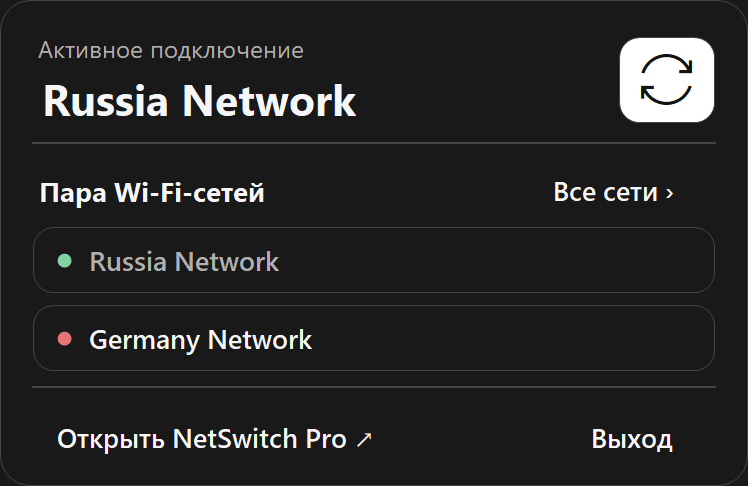
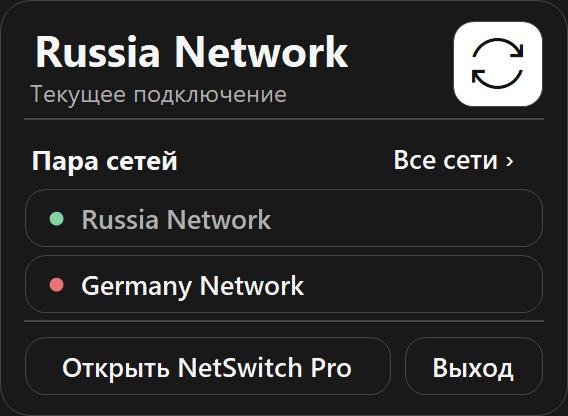
Release NetSwitch Pro 2.0.7 with a smaller tray panel

diff --git a/UiWords.cs b/UiWords.cs
@@ -7,7 +7,7 @@ internal enum Word
     Virtual, Bluetooth, Admin, Elevate, PickWifi, PickAdapters, Disconnect, Unknown,
     Saved, Enabled, Disabled, Connected, Connect, Switch, Busy, WifiHint, AdapterHint, SystemTheme, EmptyLog, CopyLog, LogCopied,
     SavedNetworks, PairNetworks, AllSavedNetworks, NoSavedNetworks, OpenApp, Exit, Previous, Next, SwitchPair, Autostart, StartupFailed,
-    AdapterWifiProfile, WifiAutomatic, LoadWifiProfiles, ChooseAdapterWifiProfile, EnabledWithoutLink, TrayAllShort, TrayPairShort
+    AdapterWifiProfile, WifiAutomatic, LoadWifiProfiles, ChooseAdapterWifiProfile, EnabledWithoutLink, TrayAllShort, TrayPairShort, TrayCurrentConnection
 }
 
 internal static class UiWords
@@ -24,37 +24,37 @@ internal static class UiWords
          "Wi-Fi adapter|Active connection|Network A|Network B|Adapter A|Adapter B|Virtual|Bluetooth|Administrator mode|Run as administrator|" +
          "Choose two different saved networks.|Choose two different adapters.|Disconnected|Profile unavailable|" +
          "Saved profile|Enabled|Disabled|Connected|Connect to|Switch to|Working…|" +
-         "Choose networks already saved in Windows.|The target link is checked before the active adapter is disabled.|Follow Windows|No activity yet.|Copy log|Copied|Saved Wi-Fi networks|Your Wi-Fi pair|All saved networks|No Wi-Fi profiles are saved for this adapter.|Open NetSwitch Pro|Exit|Previous page|Next page|Switch Wi-Fi pair|Start with Windows in the tray|Could not update Windows startup.|Wi-Fi network for adapter|Automatic|Enable Wi-Fi and load networks|Choose a saved Wi-Fi network.|Enabled, no connection|All networks|Pair").Split('|'),
+         "Choose networks already saved in Windows.|The target link is checked before the active adapter is disabled.|Follow Windows|No activity yet.|Copy log|Copied|Saved Wi-Fi networks|Network pair|All saved networks|No Wi-Fi profiles are saved for this adapter.|Open NetSwitch Pro|Exit|Previous page|Next page|Switch Wi-Fi pair|Start with Windows in the tray|Could not update Windows startup.|Wi-Fi network for adapter|Automatic|Enable Wi-Fi and load networks|Choose a saved Wi-Fi network.|Enabled, no connection|All networks|Pair|Current connection").Split('|'),
         ("Переключение сетей и адаптеров|Сети Wi-Fi|Адаптеры|Обновить|Журнал|Настройки|Тема|Тёмная|Светлая|Язык|" +
          "Адаптер Wi-Fi|Активное подключение|Сеть A|Сеть B|Адаптер A|Адаптер B|Виртуальные|Bluetooth|Режим администратора|Запустить от администратора|" +
          "Выберите две разные сохранённые сети.|Выберите два разных адаптера.|Нет подключения|Имя профиля недоступно|" +
          "Сохранённый профиль|Включён|Отключён|Подключено|Подключить|Переключить на|Выполняется…|" +
-         "Выберите сети, уже сохранённые в Windows.|Перед отключением активного адаптера проверяется новое подключение.|Как в Windows|Событий пока нет.|Копировать|Скопировано|Сохранённые сети|Пара Wi-Fi-сетей|Все сохранённые сети|Для этого адаптера нет сохранённых Wi-Fi-сетей.|Открыть NetSwitch Pro|Выход|Предыдущая страница|Следующая страница|Переключить пару|Запускать вместе с Windows в трее|Не удалось изменить автозапуск Windows.|Сеть для адаптера Wi-Fi|Автоматически|Включить Wi-Fi и загрузить сети|Выберите сохранённую сеть Wi-Fi.|Включён, без подключения|Все сети|К паре").Split('|'),
+         "Выберите сети, уже сохранённые в Windows.|Перед отключением активного адаптера проверяется новое подключение.|Как в Windows|Событий пока нет.|Копировать|Скопировано|Сохранённые сети|Пара сетей|Все сохранённые сети|Для этого адаптера нет сохранённых Wi-Fi-сетей.|Открыть NetSwitch Pro|Выход|Предыдущая страница|Следующая страница|Переключить пару|Запускать вместе с Windows в трее|Не удалось изменить автозапуск Windows.|Сеть для адаптера Wi-Fi|Автоматически|Включить Wi-Fi и загрузить сети|Выберите сохранённую сеть Wi-Fi.|Включён, без подключения|Все сети|К паре|Текущее подключение").Split('|'),
         ("Changer de réseau et d’adaptateur|Réseaux Wi-Fi|Adaptateurs|Actualiser|Journal|Paramètres|Thème|Sombre|Clair|Langue|" +
          "Adaptateur Wi-Fi|Connexion active|Réseau A|Réseau B|Adaptateur A|Adaptateur B|Virtuels|Bluetooth|Mode administrateur|Exécuter en administrateur|" +
          "Choisissez deux réseaux enregistrés différents.|Choisissez deux adaptateurs différents.|Déconnecté|Profil indisponible|" +
          "Profil enregistré|Activé|Désactivé|Connecté|Connecter|Basculer vers|En cours…|" +
-         "Choisissez des réseaux enregistrés dans Windows.|La nouvelle connexion est vérifiée avant la désactivation de l’adaptateur actif.|Selon Windows|Aucune activité.|Copier|Copié|Réseaux Wi-Fi enregistrés|Paire Wi-Fi|Tous les réseaux enregistrés|Aucun profil Wi-Fi enregistré pour cet adaptateur.|Ouvrir NetSwitch Pro|Quitter|Page précédente|Page suivante|Basculer la paire|Démarrer avec Windows dans la zone de notification|Impossible de modifier le démarrage Windows.|Réseau Wi-Fi de l’adaptateur|Automatique|Activer le Wi-Fi et charger les réseaux|Choisissez un réseau Wi-Fi enregistré.|Activé, sans connexion|Tous les réseaux|Paire").Split('|'),
+         "Choisissez des réseaux enregistrés dans Windows.|La nouvelle connexion est vérifiée avant la désactivation de l’adaptateur actif.|Selon Windows|Aucune activité.|Copier|Copié|Réseaux Wi-Fi enregistrés|Paire de réseaux|Tous les réseaux enregistrés|Aucun profil Wi-Fi enregistré pour cet adaptateur.|Ouvrir NetSwitch Pro|Quitter|Page précédente|Page suivante|Basculer la paire|Démarrer avec Windows dans la zone de notification|Impossible de modifier le démarrage Windows.|Réseau Wi-Fi de l’adaptateur|Automatique|Activer le Wi-Fi et charger les réseaux|Choisissez un réseau Wi-Fi enregistré.|Activé, sans connexion|Tous les réseaux|Paire|Connexion actuelle").Split('|'),
         ("Netzwerke und Adapter wechseln|WLAN-Netze|Adapter|Aktualisieren|Protokoll|Einstellungen|Design|Dunkel|Hell|Sprache|" +
          "WLAN-Adapter|Aktive Verbindung|Netz A|Netz B|Adapter A|Adapter B|Virtuell|Bluetooth|Administratormodus|Als Administrator starten|" +
          "Zwei verschiedene gespeicherte Netze auswählen.|Zwei verschiedene Adapter auswählen.|Getrennt|Profil nicht verfügbar|" +
          "Gespeichertes Profil|Aktiviert|Deaktiviert|Verbunden|Verbinden mit|Wechseln zu|Wird ausgeführt…|" +
-         "In Windows gespeicherte Netze auswählen.|Die neue Verbindung wird geprüft, bevor der aktive Adapter deaktiviert wird.|Wie in Windows|Keine Einträge.|Kopieren|Kopiert|Gespeicherte WLAN-Netze|WLAN-Paar|Alle gespeicherten Netze|Für diesen Adapter sind keine WLAN-Profile gespeichert.|NetSwitch Pro öffnen|Beenden|Vorherige Seite|Nächste Seite|WLAN-Paar wechseln|Mit Windows im Infobereich starten|Windows-Autostart konnte nicht geändert werden.|WLAN für den Adapter|Automatisch|WLAN aktivieren und Netze laden|Ein gespeichertes WLAN auswählen.|Aktiviert, ohne Verbindung|Alle Netze|Paar").Split('|'),
+         "In Windows gespeicherte Netze auswählen.|Die neue Verbindung wird geprüft, bevor der aktive Adapter deaktiviert wird.|Wie in Windows|Keine Einträge.|Kopieren|Kopiert|Gespeicherte WLAN-Netze|Netzwerkpaar|Alle gespeicherten Netze|Für diesen Adapter sind keine WLAN-Profile gespeichert.|NetSwitch Pro öffnen|Beenden|Vorherige Seite|Nächste Seite|WLAN-Paar wechseln|Mit Windows im Infobereich starten|Windows-Autostart konnte nicht geändert werden.|WLAN für den Adapter|Automatisch|WLAN aktivieren und Netze laden|Ein gespeichertes WLAN auswählen.|Aktiviert, ohne Verbindung|Alle Netze|Paar|Aktuelle Verbindung").Split('|'),
         ("切换网络和适配器|Wi-Fi 网络|适配器|刷新|日志|设置|主题|深色|浅色|语言|" +
          "Wi-Fi 适配器|当前连接|网络 A|网络 B|适配器 A|适配器 B|虚拟|蓝牙|管理员模式|以管理员身份运行|" +
          "请选择两个不同的已保存网络。|请选择两个不同的适配器。|未连接|无法读取配置文件|" +
          "已保存配置文件|已启用|已禁用|已连接|连接到|切换到|处理中…|" +
-         "请选择 Windows 中已保存的网络。|禁用当前适配器前将检查新连接。|跟随 Windows|暂无活动。|复制日志|已复制|已保存的 Wi-Fi 网络|Wi-Fi 网络对|所有已保存的网络|此适配器没有已保存的 Wi-Fi 配置文件。|打开 NetSwitch Pro|退出|上一页|下一页|切换 Wi-Fi 网络|随 Windows 启动至系统托盘|无法更新 Windows 启动设置。|适配器的 Wi-Fi 网络|自动|启用 Wi-Fi 并加载网络|请选择已保存的 Wi-Fi 网络。|已启用，未连接|全部网络|网络对").Split('|'),
+         "请选择 Windows 中已保存的网络。|禁用当前适配器前将检查新连接。|跟随 Windows|暂无活动。|复制日志|已复制|已保存的 Wi-Fi 网络|网络对|所有已保存的网络|此适配器没有已保存的 Wi-Fi 配置文件。|打开 NetSwitch Pro|退出|上一页|下一页|切换 Wi-Fi 网络|随 Windows 启动至系统托盘|无法更新 Windows 启动设置。|适配器的 Wi-Fi 网络|自动|启用 Wi-Fi 并加载网络|请选择已保存的 Wi-Fi 网络。|已启用，未连接|全部网络|网络对|当前连接").Split('|'),
         ("Przełączanie sieci i kart|Sieci Wi-Fi|Karty sieciowe|Odśwież|Dziennik|Ustawienia|Motyw|Ciemny|Jasny|Język|" +
          "Karta Wi-Fi|Aktywne połączenie|Sieć A|Sieć B|Karta A|Karta B|Wirtualne|Bluetooth|Tryb administratora|Uruchom jako administrator|" +
          "Wybierz dwie różne zapisane sieci.|Wybierz dwie różne karty.|Rozłączono|Profil niedostępny|" +
          "Zapisany profil|Włączona|Wyłączona|Połączono|Połącz z|Przełącz na|Praca w toku…|" +
-         "Wybierz sieci zapisane w systemie Windows.|Nowe połączenie jest sprawdzane przed wyłączeniem aktywnej karty.|Jak w Windows|Brak zdarzeń.|Kopiuj|Skopiowano|Zapisane sieci Wi-Fi|Para sieci Wi-Fi|Wszystkie zapisane sieci|Brak profili Wi-Fi dla tej karty.|Otwórz NetSwitch Pro|Zakończ|Poprzednia strona|Następna strona|Przełącz parę|Uruchamiaj z Windows w zasobniku|Nie można zmienić autostartu Windows.|Sieć Wi-Fi dla karty|Automatycznie|Włącz Wi-Fi i wczytaj sieci|Wybierz zapisaną sieć Wi-Fi.|Włączona, bez połączenia|Wszystkie|Para").Split('|'),
+         "Wybierz sieci zapisane w systemie Windows.|Nowe połączenie jest sprawdzane przed wyłączeniem aktywnej karty.|Jak w Windows|Brak zdarzeń.|Kopiuj|Skopiowano|Zapisane sieci Wi-Fi|Para sieci|Wszystkie zapisane sieci|Brak profili Wi-Fi dla tej karty.|Otwórz NetSwitch Pro|Zakończ|Poprzednia strona|Następna strona|Przełącz parę|Uruchamiaj z Windows w zasobniku|Nie można zmienić autostartu Windows.|Sieć Wi-Fi dla karty|Automatycznie|Włącz Wi-Fi i wczytaj sieci|Wybierz zapisaną sieć Wi-Fi.|Włączona, bez połączenia|Wszystkie|Para|Bieżące połączenie").Split('|'),
         ("ネットワークとアダプターを切り替え|Wi-Fi ネットワーク|アダプター|更新|履歴|設定|テーマ|ダーク|ライト|言語|" +
          "Wi-Fi アダプター|現在の接続|ネットワーク A|ネットワーク B|アダプター A|アダプター B|仮想|Bluetooth|管理者モード|管理者として実行|" +
          "保存済みの異なるネットワークを2つ選択します。|異なるアダプターを2つ選択します。|未接続|プロファイルを取得できません|" +
          "保存済みプロファイル|有効|無効|接続済み|接続先|切り替え先|処理中…|" +
-         "Windows に保存済みのネットワークを選択します。|現在のアダプターを無効にする前に、新しい接続を確認します。|Windows に合わせる|履歴はありません。|コピー|コピー済み|保存済み Wi-Fi ネットワーク|Wi-Fi ネットワークのペア|すべての保存済みネットワーク|このアダプターに保存済みの Wi-Fi プロファイルがありません。|NetSwitch Pro を開く|終了|前のページ|次のページ|Wi-Fi ペアを切り替え|Windows 起動時にトレイで開始|Windows の起動設定を変更できませんでした。|アダプターの Wi-Fi ネットワーク|自動|Wi-Fi を有効にしてネットワークを読み込む|保存済み Wi-Fi を選択してください。|有効・未接続|すべて|ペア").Split('|')
+         "Windows に保存済みのネットワークを選択します。|現在のアダプターを無効にする前に、新しい接続を確認します。|Windows に合わせる|履歴はありません。|コピー|コピー済み|保存済み Wi-Fi ネットワーク|ネットワークのペア|すべての保存済みネットワーク|このアダプターに保存済みの Wi-Fi プロファイルがありません。|NetSwitch Pro を開く|終了|前のページ|次のページ|Wi-Fi ペアを切り替え|Windows 起動時にトレイで開始|Windows の起動設定を変更できませんでした。|アダプターの Wi-Fi ネットワーク|自動|Wi-Fi を有効にしてネットワークを読み込む|保存済み Wi-Fi を選択してください。|有効・未接続|すべて|ペア|現在の接続").Split('|')
     ];
 
     public static string Get(string language, Word word)

diff --git a/TrayPanel.cs b/TrayPanel.cs
@@ -20,8 +20,8 @@ internal sealed class TrayPanel : Form
     private readonly DesktopButton all = Button(ButtonAppearance.Quiet);
     private readonly DesktopButton previous = Button();
     private readonly DesktopButton next = Button();
-    private readonly DesktopButton open = Button(ButtonAppearance.Quiet, leftAligned: true);
-    private readonly DesktopButton exit = Button(ButtonAppearance.Quiet);
+    private readonly DesktopButton open = Button();
+    private readonly DesktopButton exit = Button();
     private readonly ToolTip tips = new();
     private TrayState state = new("English", false, "", false, [], [], true, null, null);
     private DesktopPalette palette = DesktopPalette.Resolve(false);
@@ -120,36 +120,38 @@ internal sealed class TrayPanel : Form
             page = Math.Clamp(page, 0, pageCount - 1);
             var slice = available.Skip(page * PageSize).Take(PageSize).ToArray();
 
-            int width = this.Px(374), pad = this.Px(16), inner = width - 2 * pad;
-            int y = this.Px(15);
-            caption.ForeColor = palette.Muted;
-            caption.Text = W(Word.Active);
-            int switchWidth = this.Px(49), titleWidth = inner - switchWidth - this.Px(12);
-            Place(caption, pad, y, titleWidth, 18);
+            int width = this.Px(284), pad = this.Px(12), inner = width - 2 * pad;
+            int y = this.Px(10);
+            int switchWidth = this.Px(46), titleWidth = inner - switchWidth - this.Px(9);
 
             connection.Text = state.Connection;
-            Place(connection, pad, y + this.Px(18), titleWidth, 32);
+            Place(connection, pad, y, titleWidth, 27);
             tips.SetToolTip(connection, state.Connection);
+
+            caption.ForeColor = palette.Muted;
+            caption.Text = W(Word.TrayCurrentConnection);
+            Place(caption, pad, y + this.Px(28), titleWidth, 16);
 
             switchPair.AccessibleName = state.Target is { } targetName ? W(Word.Switch) + " " + targetName : W(Word.SwitchPair);
             tips.SetToolTip(switchPair, state.Target is null ? W(Word.PickWifi) : switchPair.AccessibleName);
             switchPair.Enabled = state.Target is not null && !state.Busy;
-            Place(switchPair, width - pad - switchWidth, y + this.Px(3), switchWidth, 44);
-            y += this.Px(54);
+            Place(switchPair, width - pad - switchWidth, y, switchWidth, 44);
+            y += this.Px(49);
             PlaceDivider(statusDivider, pad, inner, ref y);
 
             bool hasMore = state.Pair.Length == 2 && state.Saved.Length > state.Pair.Length;
             all.Visible = hasMore;
-            int allWidth = this.Px(102);
+            int allWidth = 0;
             if (hasMore)
             {
                 all.Text = expanded ? W(Word.TrayPairShort) : W(Word.TrayAllShort) + " ›";
+                allWidth = Math.Min(ButtonWidth(all), inner / 2);
                 tips.SetToolTip(all, expanded ? W(Word.PairNetworks) : W(Word.AllSavedNetworks));
-                Place(all, width - pad - allWidth, y, allWidth, 28);
+                Place(all, width - pad - allWidth, y, allWidth, 24);
             }
             section.Text = expanded ? W(Word.SavedNetworks) : W(Word.PairNetworks);
-            Place(section, pad, y, hasMore ? inner - allWidth : inner, 28);
-            y += this.Px(32);
+            Place(section, pad, y, inner - allWidth, 24);
+            y += this.Px(27);
 
             for (int i = 0; i < profiles.Length; i++)
             {
@@ -169,30 +171,19 @@ internal sealed class TrayPanel : Form
                 row.Selected = active;
                 row.Enabled = !active && !state.Busy;
                 tips.SetToolTip(row, row.AccessibleName);
-                Place(row, pad, y, inner, 34);
-                y += this.Px(39);
+                Place(row, pad, y, inner, 30);
+                y += this.Px(33);
             }
 
-            if (state.Saved.Length == 0)
+            var message = state.Feedback ?? (state.Saved.Length == 0 ? W(Word.NoSavedNetworks) : null);
+            feedback.Visible = message is not null;
+            if (message is not null)
             {
-                feedback.Text = state.Feedback ?? W(Word.NoSavedNetworks);
-                feedback.Visible = true;
+                feedback.Text = message;
                 feedback.ForeColor = palette.Muted;
-                Place(feedback, pad, y, inner, 39);
-                y += this.Px(43);
-            }
-            else
-            {
-                bool showFeedback = state.Feedback is not null;
-                feedback.Visible = showFeedback;
-                if (showFeedback)
-                {
-                    feedback.Text = state.Feedback;
-                    feedback.ForeColor = palette.Muted;
-                    Place(feedback, pad, y, inner, 37);
-                    tips.SetToolTip(feedback, feedback.Text);
-                    y += this.Px(39);
-                }
+                Place(feedback, pad, y, inner, 34);
+                tips.SetToolTip(feedback, message);
+                y += this.Px(36);
             }
 
             bool paginate = pageCount > 1;
@@ -216,12 +207,16 @@ internal sealed class TrayPanel : Form
             }
 
             PlaceDivider(footerDivider, pad, inner, ref y);
-            open.Text = W(Word.OpenApp) + " ↗";
+            open.Text = open.AccessibleName = W(Word.OpenApp);
             exit.Text = W(Word.Exit);
             exit.Enabled = !state.Busy;
-            int exitWidth = this.Px(83);
-            Place(open, pad, y, this.Px(213), 31);
-            Place(exit, width - pad - exitWidth, y, exitWidth, 31);
+            int exitWidth = Math.Max(this.Px(70), ButtonWidth(exit));
+            int openWidth = inner - exitWidth - this.Px(6);
+            if (ButtonWidth(open) > openWidth)
+                open.Text = "NetSwitch Pro";
+            tips.SetToolTip(open, open.AccessibleName);
+            Place(open, pad, y, openWidth, 30);
+            Place(exit, pad + openWidth + this.Px(6), y, exitWidth, 30);
             ClientSize = new Size(width, y + this.Px(40));
             if (Visible)
                 Location = PlaceNear(Screen.FromPoint(anchor).WorkingArea, anchor, Size, this.Px(10));
@@ -237,9 +232,13 @@ internal sealed class TrayPanel : Form
     private void PlaceDivider(Panel divider, int pad, int width, ref int y)
     {
         divider.BackColor = palette.Line;
-        Place(divider, pad, y + this.Px(2), width, 1);
-        y += this.Px(12);
+        Place(divider, pad, y, width, 1);
+        y += this.Px(8);
     }
+
+    private int ButtonWidth(DesktopButton button) =>
+        TextRenderer.MeasureText(button.Text, button.Font, new Size(short.MaxValue, short.MaxValue),
+            TextFormatFlags.SingleLine | TextFormatFlags.NoPadding | TextFormatFlags.NoPrefix).Width + this.Px(29);
 
     private void Place(Control control, int x, int y, int width, int height) =>
         control.SetBounds(x, y, Math.Max(1, width), this.Px(height));

diff --git a/README.md b/README.md
@@ -8,9 +8,9 @@
 <p align="center">Выберите два сохранённых подключения с нужными маршрутами. NetSwitch Pro покажет, какое активно и куда подключит следующее нажатие.</p>
 
 <p align="center">
-  <a href="https://github.com/timenti/NetSwitchPro/releases/download/v2.0.6/NetSwitchPro-2.0.6.exe"><strong>Скачать NetSwitch Pro 2.0.6 для Windows</strong></a>
+  <a href="https://github.com/timenti/NetSwitchPro/releases/download/v2.0.7/NetSwitchPro-2.0.7.exe"><strong>Скачать NetSwitch Pro 2.0.7 для Windows</strong></a>
   ·
-  <a href="https://github.com/timenti/NetSwitchPro/releases/tag/v2.0.6">Что нового</a>
+  <a href="https://github.com/timenti/NetSwitchPro/releases/tag/v2.0.7">Что нового</a>
 </p>
 
 <p align="center">
@@ -61,19 +61,19 @@
 Значок **NetSwitch Pro** доступен рядом с часами или под стрелкой **^**. После настройки двух сохранённых сетей используйте его так.
 
 - **Левый клик** сразу переключает пару. Пока Windows подключается, значок вращается. Затем появляется галочка при успехе или крестик при ошибке, после чего возвращается обычный значок.
-- **Правый клик** открывает панель с активной сетью и кнопкой со стрелками рядом с её названием. Зелёная точка показывает текущее подключение. Можно выбрать сеть из пары или нажать **Все сети** для текущего Wi‑Fi‑адаптера.
+- **Правый клик** открывает компактную панель с названием текущей сети и белой кнопкой переключения справа. Зелёная точка показывает текущее подключение. Можно выбрать сеть из пары или нажать **Все сети** для текущего Wi‑Fi‑адаптера.
 
 <p align="center">
-  <img src="docs/images/tray.png" width="374" alt="Панель NetSwitch Pro по правому клику. Кнопка переключения рядом с активной сетью, подключение отмечено зелёной точкой.">
+  <img src="docs/images/tray.png" width="284" alt="Панель NetSwitch Pro по правому клику. Крупное название сети над подписью «Текущее подключение», рядом белая кнопка переключения.">
 </p>
 
-Крестик главного окна скрывает его в область уведомлений. Пункт **Открыть NetSwitch Pro** возвращает окно, а **Выход** завершает работу.
+Крестик главного окна скрывает его в область уведомлений. Кнопка **Открыть NetSwitch Pro** возвращает окно, а **Выход** завершает работу.
 
 Чтобы значок появлялся после входа в Windows, откройте **Настройки**, включите **Запускать вместе с Windows в трее** и нажмите **Сохранить**. При входе программа запускается в фоне. Выключить автозапуск можно тем же переключателем.
 
 ## Запуск и частые вопросы
 
-**Как установить?** Скачайте файл `NetSwitchPro-2.0.6.exe` и запустите его. Это переносимая сборка для Windows x64 со встроенной средой выполнения.
+**Как установить?** Скачайте файл `NetSwitchPro-2.0.7.exe` и запустите его. Это переносимая сборка для Windows x64 со встроенной средой выполнения.
 
 **Почему сети нет в списке?** Программа показывает профили, сохранённые Windows для выбранного адаптера. Подключитесь к нужной сети через Windows и нажмите **Обновить** в NetSwitch Pro.
 

diff --git a/docs/releases/v2.0.7.md b/docs/releases/v2.0.7.md
@@ -1,0 +1,7 @@
+Меню NetSwitch Pro по правому клику на значок в трее стало уже и компактнее.
+
+- Название подключённой сети теперь вверху, подпись «Текущее подключение» под ним. Белая кнопка переключения находится справа.
+- Раздел «Пара сетей» показывает сети плотнее. Из него по-прежнему доступны «Все сети».
+- Кнопки открытия окна и выхода получили обводку и расположены рядом под разделительной линией.
+
+[Скачать EXE для Windows x64](https://github.com/timenti/NetSwitchPro/releases/download/v2.0.7/NetSwitchPro-2.0.7.exe) · [Руководство](https://github.com/timenti/NetSwitchPro/tree/v2.0.7#readme)
